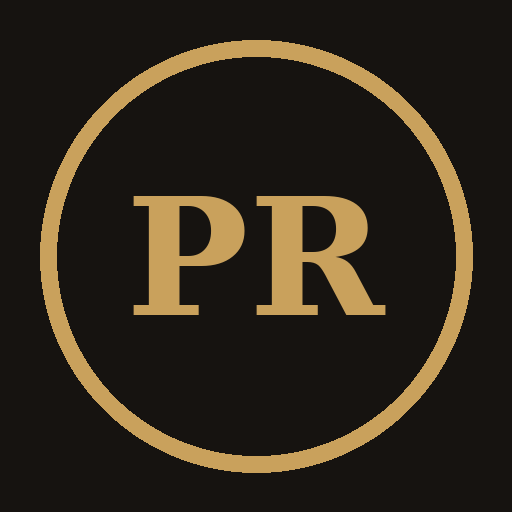
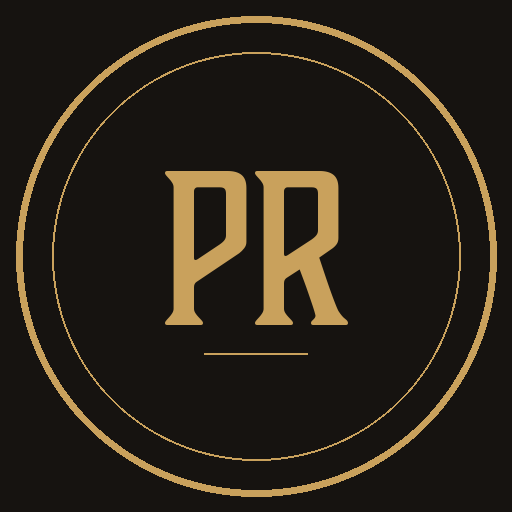
Add files via upload

diff --git a/admin.html b/admin.html
@@ -67,17 +67,19 @@
   .msg.ok{background:#20301f;color:#a9d4ab;}
 
   /* App shell */
-  .topbar{display:flex;align-items:center;justify-content:space-between;padding:18px 16px;
-    border-bottom:1px solid var(--border);position:sticky;top:0;background:var(--bg);z-index:5;}
-  .topbar-title-row{display:flex;align-items:center;gap:10px;}
-  .topbar-logo{width:34px;height:34px;flex-shrink:0;}
-  .topbar .title{font-family:"Boucherie Block",Georgia,serif;font-size:20px;}
-  .topbar .subtitle{font-size:11px;color:var(--muted);margin-top:2px;}
+  .topbar{display:flex;align-items:center;justify-content:space-between;padding:14px 16px;
+    border-bottom:1px solid var(--border);position:sticky;top:0;background:var(--bg);z-index:5;gap:8px;}
+  .topbar-title-row{display:flex;align-items:center;gap:8px;min-width:0;flex:1;}
+  .topbar-logo{width:28px;height:28px;flex-shrink:0;}
+  .topbar-title-text{min-width:0;}
+  .topbar .title{font-family:"Boucherie Block",Georgia,serif;font-size:16px;white-space:nowrap;
+    overflow:hidden;text-overflow:ellipsis;}
+  .topbar .subtitle{font-size:10.5px;color:var(--muted);margin-top:2px;white-space:nowrap;overflow:hidden;text-overflow:ellipsis;}
   .icon-btn{background:transparent;border:1px solid var(--border2);color:var(--text);border-radius:20px;
-    width:34px;height:34px;display:flex;align-items:center;justify-content:center;font-size:15px;}
-  .cart-btn{display:flex;align-items:center;gap:6px;background:var(--border2);border:none;color:var(--text);
-    border-radius:20px;padding:8px 14px;font-size:13px;}
-  .topbar-right{display:flex;align-items:center;gap:10px;}
+    width:30px;height:30px;display:flex;align-items:center;justify-content:center;font-size:13px;flex-shrink:0;}
+  .cart-btn{display:flex;align-items:center;gap:5px;background:var(--border2);border:none;color:var(--text);
+    border-radius:20px;padding:7px 11px;font-size:12.5px;flex-shrink:0;}
+  .topbar-right{display:flex;align-items:center;gap:7px;flex-shrink:0;}
 
   .content{padding:24px 16px 16px;}
   .cat-row{display:flex;gap:8px;overflow-x:auto;margin-bottom:16px;padding-bottom:2px;}
@@ -501,7 +503,7 @@ function renderApp(){
 
 function renderTopbar(title, subtitle, rightHtml){
   return `<div class="topbar">
-    <div class="topbar-title-row"><img src="logo.png" class="topbar-logo" alt=""/><div><div class="title">${esc(title)}</div><div class="subtitle">${esc(subtitle||"")}</div></div></div>
+    <div class="topbar-title-row"><img src="logo.png" class="topbar-logo" alt=""/><div class="topbar-title-text"><div class="title">${esc(title)}</div><div class="subtitle">${esc(subtitle||"")}</div></div></div>
     <div class="topbar-right">${rightHtml}</div>
   </div>`;
 }

diff --git a/index.html b/index.html
@@ -67,17 +67,19 @@
   .msg.ok{background:#20301f;color:#a9d4ab;}
 
   /* App shell */
-  .topbar{display:flex;align-items:center;justify-content:space-between;padding:18px 16px;
-    border-bottom:1px solid var(--border);position:sticky;top:0;background:var(--bg);z-index:5;}
-  .topbar-title-row{display:flex;align-items:center;gap:10px;}
-  .topbar-logo{width:34px;height:34px;flex-shrink:0;}
-  .topbar .title{font-family:"Boucherie Block",Georgia,serif;font-size:20px;}
-  .topbar .subtitle{font-size:11px;color:var(--muted);margin-top:2px;}
+  .topbar{display:flex;align-items:center;justify-content:space-between;padding:14px 16px;
+    border-bottom:1px solid var(--border);position:sticky;top:0;background:var(--bg);z-index:5;gap:8px;}
+  .topbar-title-row{display:flex;align-items:center;gap:8px;min-width:0;flex:1;}
+  .topbar-logo{width:28px;height:28px;flex-shrink:0;}
+  .topbar-title-text{min-width:0;}
+  .topbar .title{font-family:"Boucherie Block",Georgia,serif;font-size:16px;white-space:nowrap;
+    overflow:hidden;text-overflow:ellipsis;}
+  .topbar .subtitle{font-size:10.5px;color:var(--muted);margin-top:2px;white-space:nowrap;overflow:hidden;text-overflow:ellipsis;}
   .icon-btn{background:transparent;border:1px solid var(--border2);color:var(--text);border-radius:20px;
-    width:34px;height:34px;display:flex;align-items:center;justify-content:center;font-size:15px;}
-  .cart-btn{display:flex;align-items:center;gap:6px;background:var(--border2);border:none;color:var(--text);
-    border-radius:20px;padding:8px 14px;font-size:13px;}
-  .topbar-right{display:flex;align-items:center;gap:10px;}
+    width:30px;height:30px;display:flex;align-items:center;justify-content:center;font-size:13px;flex-shrink:0;}
+  .cart-btn{display:flex;align-items:center;gap:5px;background:var(--border2);border:none;color:var(--text);
+    border-radius:20px;padding:7px 11px;font-size:12.5px;flex-shrink:0;}
+  .topbar-right{display:flex;align-items:center;gap:7px;flex-shrink:0;}
 
   .content{padding:24px 16px 16px;}
   .cat-row{display:flex;gap:8px;overflow-x:auto;margin-bottom:16px;padding-bottom:2px;}
@@ -501,7 +503,7 @@ function renderApp(){
 
 function renderTopbar(title, subtitle, rightHtml){
   return `<div class="topbar">
-    <div class="topbar-title-row"><img src="logo.png" class="topbar-logo" alt=""/><div><div class="title">${esc(title)}</div><div class="subtitle">${esc(subtitle||"")}</div></div></div>
+    <div class="topbar-title-row"><img src="logo.png" class="topbar-logo" alt=""/><div class="topbar-title-text"><div class="title">${esc(title)}</div><div class="subtitle">${esc(subtitle||"")}</div></div></div>
     <div class="topbar-right">${rightHtml}</div>
   </div>`;
 }

diff --git a/service-worker.js b/service-worker.js
@@ -1,9 +1,13 @@
-const CACHE = "private-reserve-v29";
+const CACHE = "private-reserve-v30";
 const ASSETS = ["./", "./index.html", "./manifest.json", "./admin.html", "./admin-manifest.json", "./icon-192.png", "./icon-512.png", "./fonts/Boucherie_Block.ttf", "./fonts/Boucherie_Block.otf", "./logo.png"];
 const PAGE_PATHS = ["/", "/index.html", "/admin.html"];
 
 self.addEventListener("install", (e) => {
-  e.waitUntil(caches.open(CACHE).then((c) => c.addAll(ASSETS)));
+  e.waitUntil(
+    caches.open(CACHE).then((c) =>
+      Promise.allSettled(ASSETS.map((asset) => c.add(asset)))
+    )
+  );
   self.skipWaiting();
 });
 